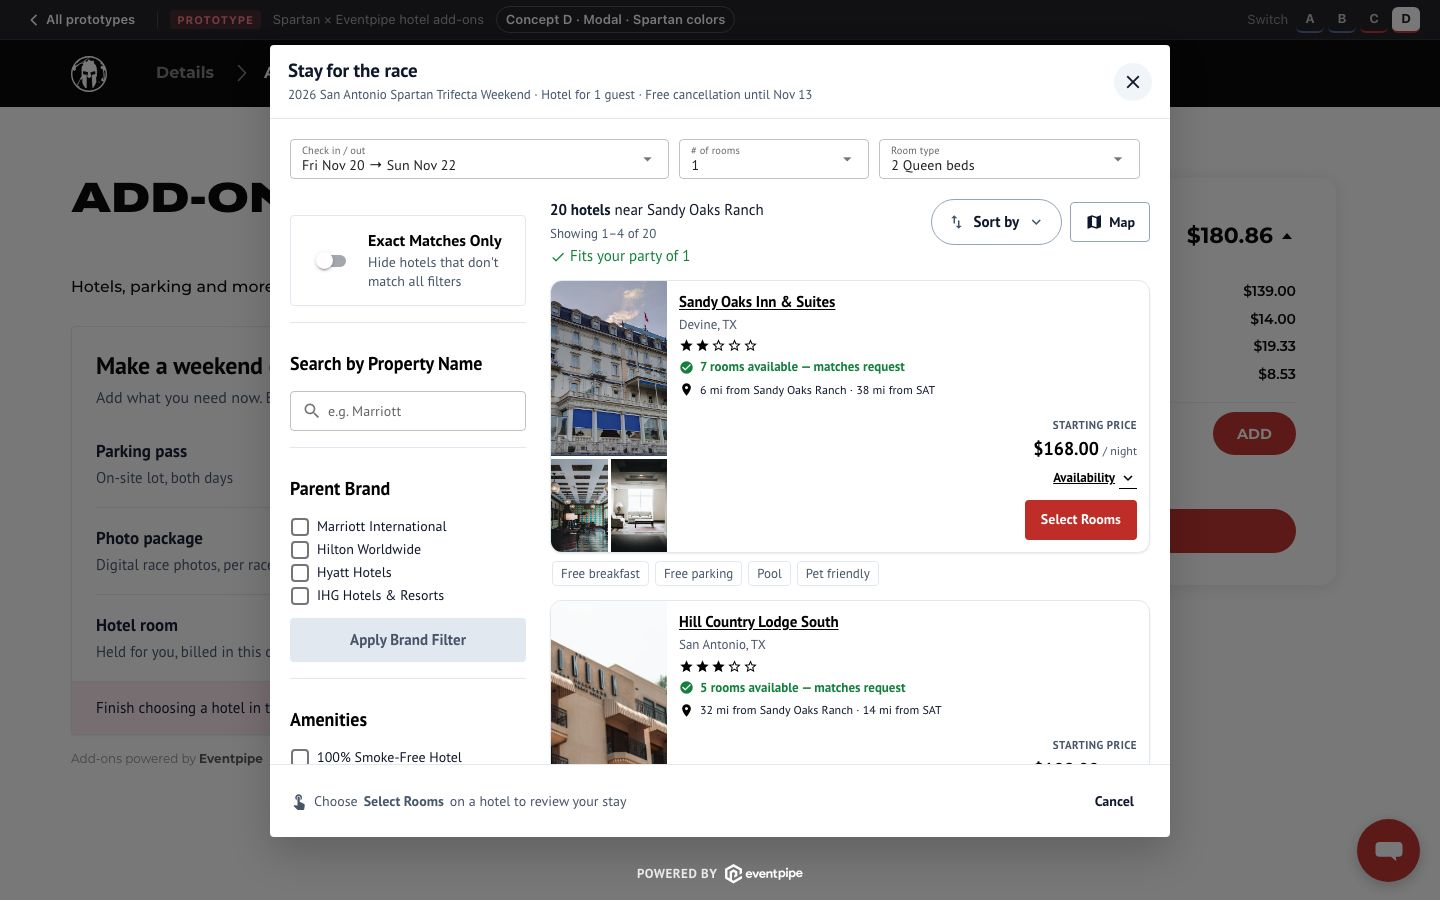
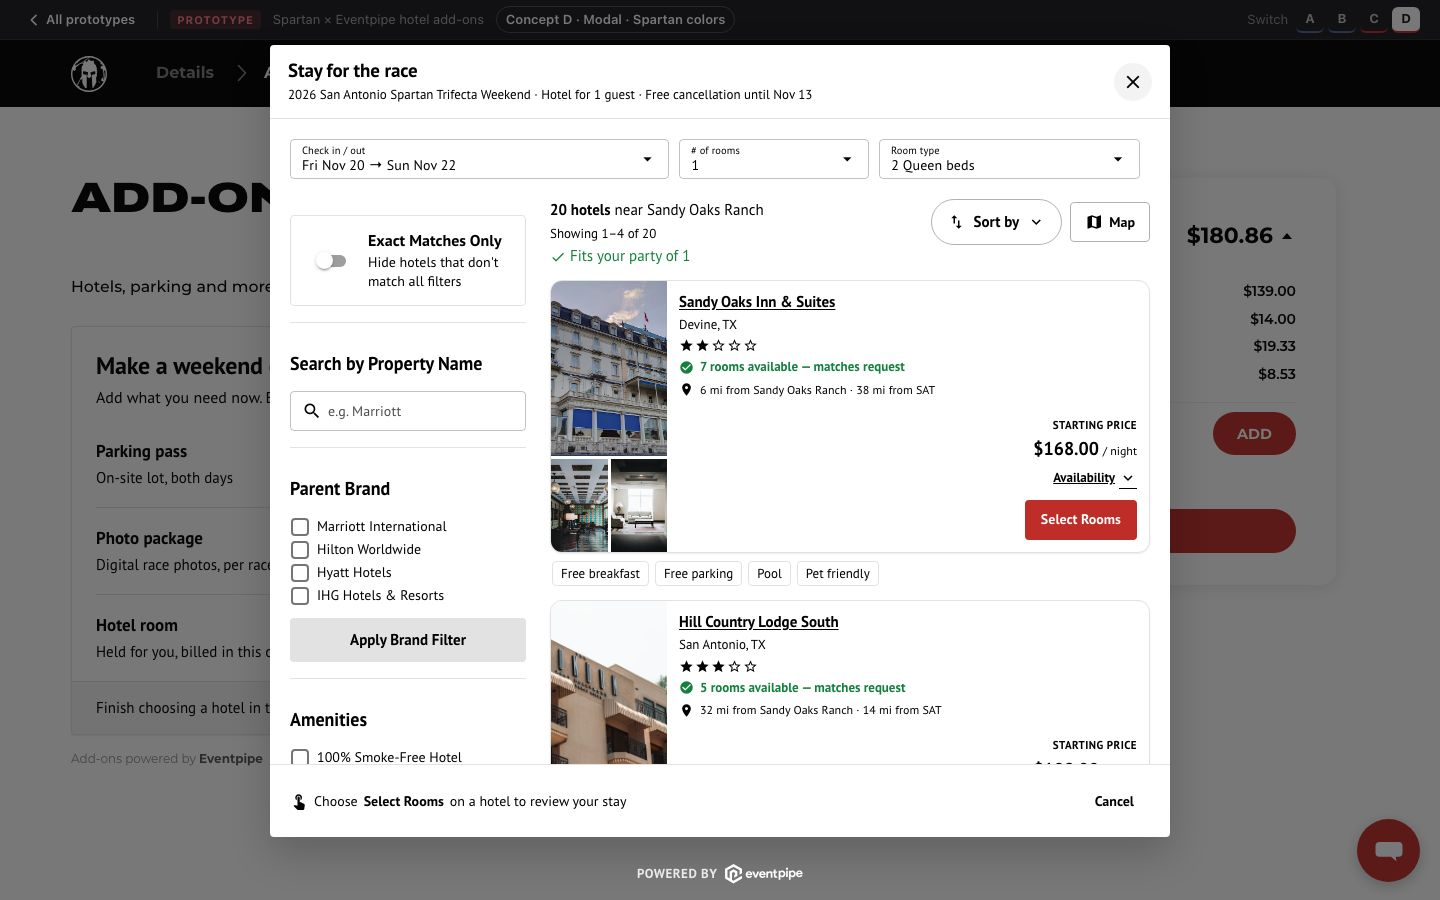
style(spartan-skin): neutral gray ramp + black text for concepts C/D
Re-point Presto's blue-leaning Slate 50–950 ramp at Spartan's true grays for
containers, default all widget text/icons to black, and swap the pink tinted
selected/brand-subtle fills for neutral gray. Refresh C/D Storybook captures.

diff --git a/spartanRace-ticketsocket-ep-demo-v1/src/presto/PrestoApp.vue b/spartanRace-ticketsocket-ep-demo-v1/src/presto/PrestoApp.vue
@@ -52,19 +52,56 @@ html.skin-spartan {
   --ds-palette-navy-800: #a1231e;
   --ds-palette-navy-900: #be2d27;
   --ds-palette-navy-950: #000000;
+  /* Neutrals: Presto's Slate scale leans blue. Re-point the full 50–950 ramp at
+     true grays matched to Spartan's site (panels #FAFAFA/#F3F3F3, rules #E2E2E2,
+     greys #B1B1B1/#8C8C8C, ink #222/#121212) so every container is neutral. */
+  --ds-palette-slate-50: #fafafa;
+  --ds-palette-slate-100: #f3f3f3;
+  --ds-palette-slate-200: #e2e2e2;
+  --ds-palette-slate-300: #d6d6d6;
+  --ds-palette-slate-400: #b1b1b1;
+  --ds-palette-slate-500: #8c8c8c;
+  --ds-palette-slate-600: #6b6b6b;
+  --ds-palette-slate-700: #4a4a4a;
+  --ds-palette-slate-800: #222222;
+  --ds-palette-slate-900: #121212;
+  --ds-palette-slate-950: #000000;
+  --ds-color-surface-canvas: #fafafa;
+  --ds-color-surface-sunken: #f3f3f3;
+  /* Text defaults to black (status colors — available / limited — keep their meaning). */
+  --ds-color-text: #000000;
+  --ds-color-text-subtle: #000000;
+  --ds-color-text-subtlest: #000000;
+  --ds-color-icon: #000000;
+  --ds-color-icon-subtle: #000000;
   --ds-color-text-brand: #000000;
   --ds-color-link: #000000;
-  --ds-color-link-visited: #222222;
+  --ds-color-link-visited: #000000;
+  /* Brand: Spartan checkout red for actions + selection outlines; tinted
+     containers use the neutral ramp instead of pink. */
   --ds-color-border-brand: #be2d27;
+  --ds-color-border-focused: #be2d27;
   --ds-color-background-brand-bold: #be2d27;
-  --ds-color-background-brand-subtlest: #fae8ea;
-  --ds-color-background-selected: #fae8ea;
+  --ds-color-background-brand-subtlest: #f3f3f3;
+  --ds-color-background-selected: #f3f3f3;
   --ds-color-background-selected-bold: #be2d27;
+  --q-dark: #121212;
 }
+/* Quasar's own greys (field labels, hints) and the navy-tinted card shadows */
+html.skin-spartan .q-field__label,
+html.skin-spartan .q-field__native,
+html.skin-spartan .q-field__marginal,
+html.skin-spartan .q-field__bottom { color: #000; }
+html.skin-spartan .text-grey-7,
+html.skin-spartan .text-grey-8 { color: #000 !important; }
 /* HotelMap paints its price pills with a hard-coded navy inline style. */
 html.skin-spartan [style*="background: rgb(1, 17, 62)"] { background: #be2d27 !important; }
 html.skin-spartan [style*="rgb(1, 17, 62)"] { border-color: #be2d27 !important; }
 html.skin-spartan [style*="color: rgb(1, 17, 62)"] { color: #be2d27 !important; }
+/* HotelMap popups author their text in zinc greys inline — default them to black */
+html.skin-spartan [style*="#71717A"], html.skin-spartan [style*="rgb(113, 113, 122)"],
+html.skin-spartan [style*="color:#18181B"], html.skin-spartan [style*="color: rgb(24, 24, 27)"] { color: #000 !important; }
+html.skin-spartan .hb__legend-dot { box-shadow: 0 0 0 4px rgba(190, 45, 39, 0.18); }
 html.skin-spartan .hb-venue { background: #000; }
 html.skin-spartan .hb-venue::after { border-top-color: #000; }
 
